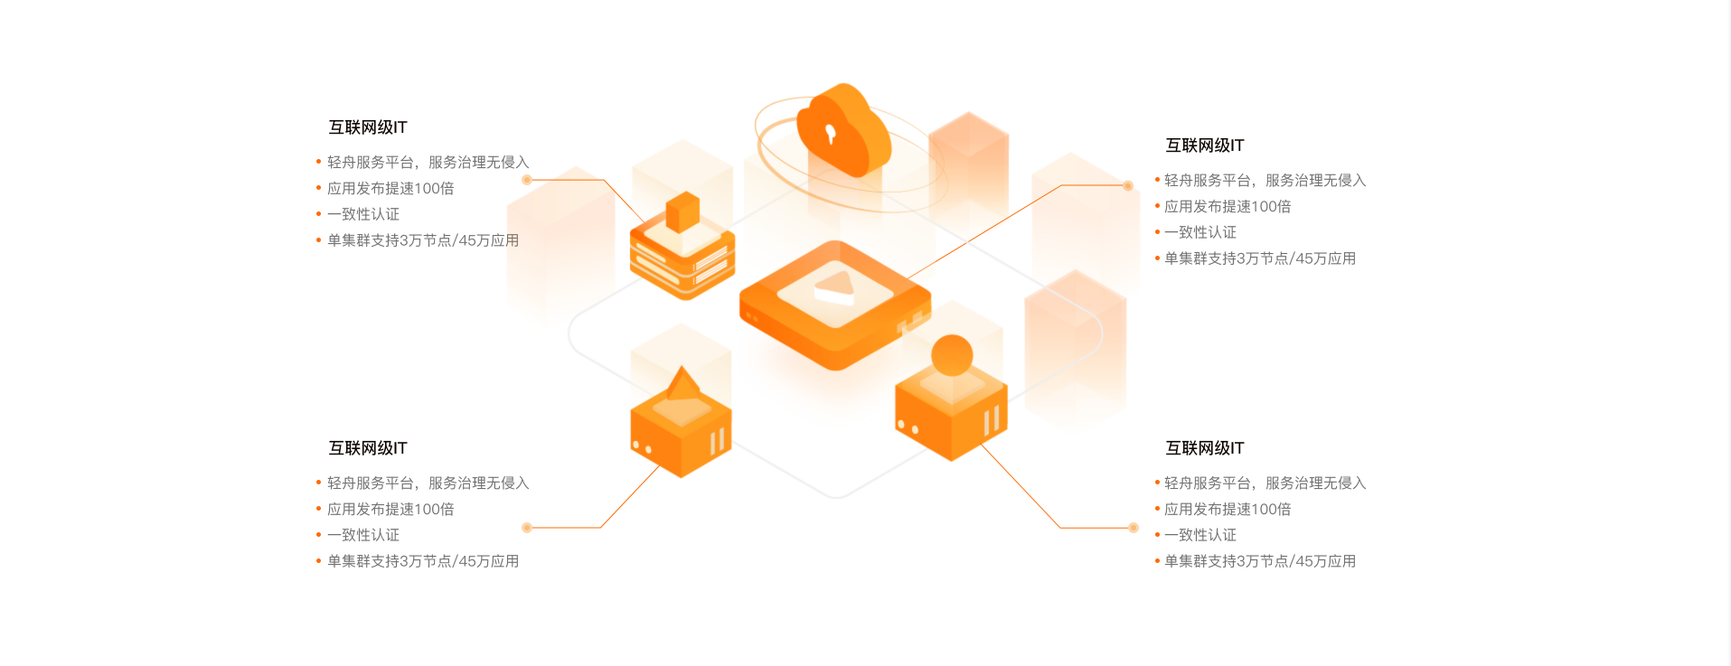
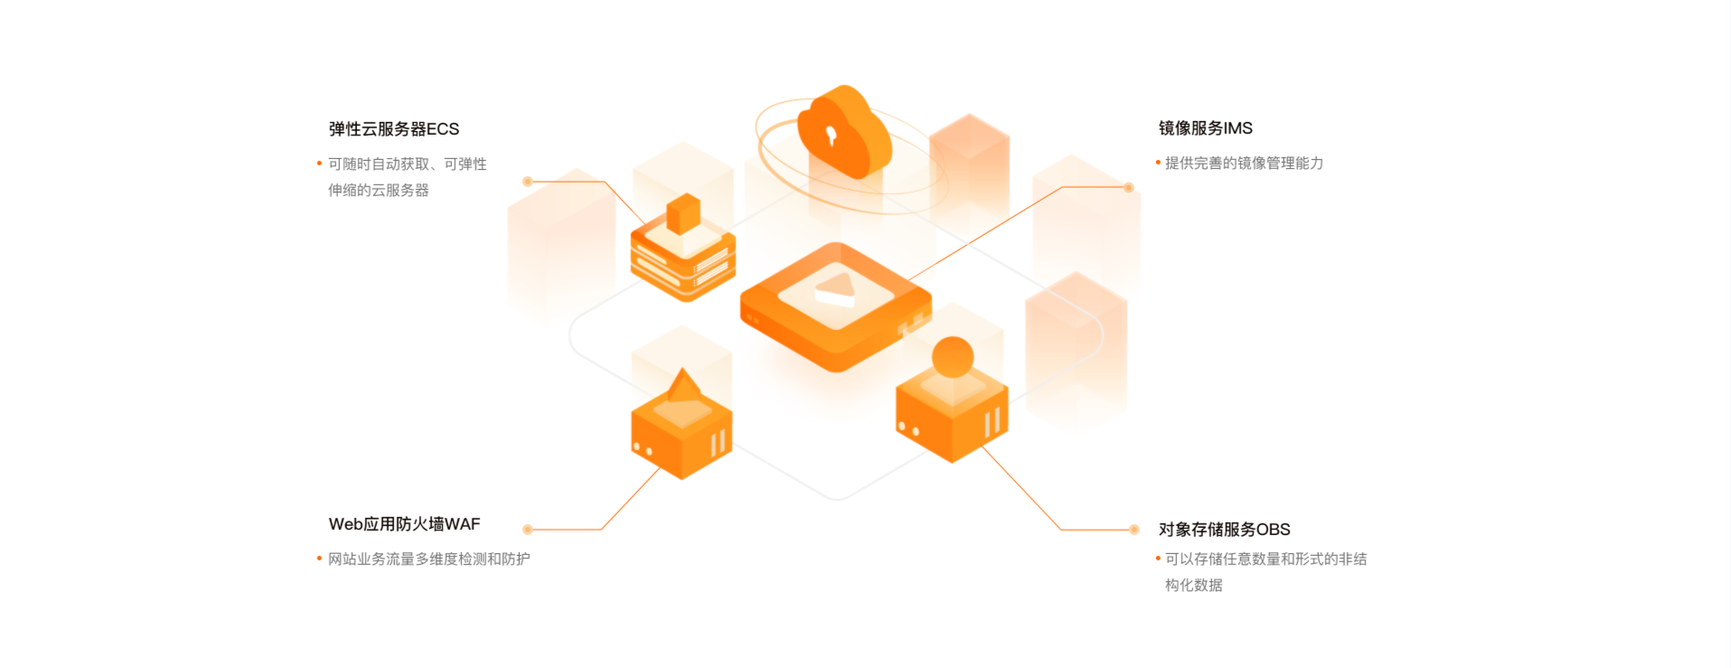
更新

diff --git a/css/homePage/index.css b/css/homePage/index.css
@@ -1,1 +1,1 @@
[2 lines of base64/hex data omitted]

diff --git a/js/index/index.js b/js/index/index.js
@@ -1,1 +1,1 @@
-!function(){"use strict";var t={7384:function(t,e,n){n.d(e,{m:function(){return c}});let o,s,i=1,r=10,l=0,a=[],d=0;function c(t){let e=arguments.length>1&&void 0!==arguments[1]?arguments[1]:0;var n,c;o=document.createElement("div"),o.style.position="fixed",o.style.pointerEvents="auto",o.style.zIndex=(n=document.querySelectorAll("*"),c=-1,n.forEach((function(t){var e=window.getComputedStyle(t).getPropertyValue("z-index");e=parseInt(e,10),!isNaN(e)&&e>c&&(c=e)})),c+"10"),o.style.left="0",o.style.right="0",o.style.bottom="0",o.style.top="0",o.style.display="flex",o.style.display="flex",o.style.alignItems="center",o.style.justifyContent="center",o.style.backgroundColor="#00000080",window.addEventListener("wheel",y,{passive:!1}),i=1,r=10,l=0,d=0,a=t,d=e,p(t[e]),o.innerHTML='\n  <style>\n    .my-show-mask-close{\n      position: absolute;\n      z-index: 9;\n      top: 5%;\n      right: 5%;\n      width: 40px;\n      height: 40px;\n      border-radius: 50%;\n      background: #606266;\n      display: flex;\n      align-items: center;\n      justify-content: center;\n      cursor:pointer;\n    }\n    .my-show-mask-box{\n      position: absolute;\n      z-index: 9;\n      display: flex;\n      bottom: 8%;\n      border-radius: 20px;\n      background-color: #606266;\n      height: 44px;\n      width: 282px;\n      justify-content: space-evenly;\n      align-items: center;\n    }\n    .my-show-mask-box>div{\n      color:#fff;\n      font-style: normal;\n      font-weight: 400;\n      font-size: 23px;\n      align-items: center;\n      cursor:pointer;\n      display: flex;\n    }\n    .my-show-mask-box>.my-show-mask-box-reduce{\n     padding-top: 5px;\n    }\n    .my-show-mask-box>.my-show-mask-box-amplify{\n     padding-top: 5px;\n    }\n    .my-show-mask-box>.my-show-mask-box-rotate-left{\n     border-radius: 50%;\n     position: relative;\n     width: 20px;\n     height: 20px;\n     border: 2px solid #fff;\n    }\n    .my-show-mask-box>.my-show-mask-box-rotate-left::after{\n     content: \'\';\n     position: absolute;\n     z-index: 2;\n     transform: rotate(65deg);\n     left: -3px;\n     top: -1px;\n     border-right: 2px solid #fff;\n     width: 5px;\n     height: 5px;\n     border-bottom: 2px solid #fff;\n    }\n    .my-show-mask-box>.my-show-mask-box-rotate-left::before{\n     content: \'\';\n     position: absolute;\n     width: 12px;\n     height: 7px;\n     top: 5px;\n     left: -6px;\n     background-color: #606266;\n    }\n\n    .my-show-mask-box>.my-show-mask-box-rotate-right{\n     border-radius: 50%;\n     position: relative;\n     width: 20px;\n     height: 20px;\n     border: 2px solid #fff;\n    }\n    .my-show-mask-box>.my-show-mask-box-rotate-right::after{\n     content: \'\';\n     position: absolute;\n     z-index: 2;\n     transform: rotate(19deg);\n     right: -3px;\n     top: 0px;\n     border-right: 2px solid #fff;\n     width: 5px;\n     height: 5px;\n     border-bottom: 2px solid #fff;\n    }\n    .my-show-mask-box>.my-show-mask-box-rotate-right::before{\n     content: \'\';\n     position: absolute;\n     width: 12px;\n     height: 7px;\n     top: 5px;\n     right: -6px;\n     background-color: #606266;\n    }\n    .my-show-mask-switch{\n     position: absolute;\n     z-index: 10;\n     font-size: 31px;\n     color: #fff;\n     font-family: cursive, sans-serif;\n     font-weight: 400;\n     border-radius: 50%;\n     width: 50px;\n     height: 50px;\n     background-color: #606266;\n     text-align: center;\n     line-height: 50px;\n     top: 50%;\n     transform: translateY(-50%);\n     cursor: pointer;\n     -webkit-user-select:none;\n     -moz-user-select:none;\n     -ms-user-select:none;\n     user-select:none;\n    }\n    .my-show-mask-switch-left{\n     left: 40px;\n    }\n    .my-show-mask-switch-right{\n     right: 40px;\n    }\n  </style>\n  <div class=\'my-show-mask-close\'>\n    <svg width="18" height="18" xmlns="http://www.w3.org/2000/svg">\n      <line x1="0" y1="0" x2="18" y2="18" stroke="white" stroke-width="2.3" />\n      <line x1="0" y1="18" x2="18" y2="0" stroke="white" stroke-width="2.3" />\n    </svg>\n  </div>\n  <div class=\'my-show-mask-switch my-show-mask-switch-right\'>\n    >\n  </div>  \n  <div class=\'my-show-mask-switch my-show-mask-switch-left\'>\n    <\n  </div> \n\n  <div class=\'my-show-mask-box\'>\n   <div class="my-show-mask-box-amplify">\n    <svg width="23" height="23" xmlns="http://www.w3.org/2000/svg">\n      <circle cx="10" cy="10" r="9" stroke="white" fill="none" stroke-width="2" />\n      <line x1="6" y1="10" x2="14" y2="10" stroke="white" stroke-width="2" />\n      \x3c!-- 垂直线 --\x3e\n      <line x1="10" y1="6" x2="10" y2="14" stroke="white" stroke-width="2" />\n      <line x1="16" y1="17" x2="20" y2="20" stroke="white" stroke-width="2" />\n    </svg>\n   </div>\n\n   <div class="my-show-mask-box-reduce">\n    <svg width="23" height="23" xmlns="http://www.w3.org/2000/svg">\n      <circle cx="10" cy="10" r="9" stroke="white" fill="none" stroke-width="2" />\n      <line x1="6" y1="10" x2="14" y2="10" stroke="white" stroke-width="2" />\n      <line x1="16" y1="17" x2="20" y2="20" stroke="white" stroke-width="2" />\n    </svg>\n   </div>\n   <div class=\'my-show-mask-box-rotate-left\'>\n   </div>\n   <div class=\'my-show-mask-box-rotate-right\'>\n   </div>\n  </div>\n ',Array.from(o.children).forEach((t=>{let e=Array.from(t.classList);if(e.indexOf("my-show-mask-close")>-1&&t.addEventListener("click",(function(){f()})),e.indexOf("my-show-mask-box")>-1){t.addEventListener("click",(function(t){t.stopPropagation()})),Array.from(t.children).forEach((t=>{let e=Array.from(t.classList);e.indexOf("my-show-mask-box-amplify")>-1&&t.addEventListener("click",(function(){r*=1.2;let t=Number(s.offsetWidth),e=Number(s.offsetHeight);h(1.2*t,t,1.2*e,e)})),e.indexOf("my-show-mask-box-reduce")>-1&&t.addEventListener("click",(function(){if(r<100)return;r/=1.2;let t=Number(s.offsetWidth),e=Number(s.offsetHeight);h(t/1.2,t,e/1.2,e)})),e.indexOf("my-show-mask-box-rotate-left")>-1&&t.addEventListener("click",(function(){l=0===l?270:l-90,i=1,s.style.transform=`rotate(${l}deg) scale(${i})`})),e.indexOf("my-show-mask-box-rotate-right")>-1&&t.addEventListener("click",(function(){l=360===l?90:l+90,i=1,s.style.transform=`rotate(${l}deg) scale(${i})`}))}))}e.indexOf("my-show-mask-switch-right")>-1&&t.addEventListener("click",(function(t){t.stopPropagation(),d=0===d?a.length-1:d-1,p(a[d])})),e.indexOf("my-show-mask-switch-left")>-1&&t.addEventListener("click",(function(t){t.stopPropagation(),d=d===a.length-1?0:d+1,p(a[d])}))}))}let u=null;function h(t,e,n,o){s.style.transition="all .3s",s.style.width=`${r}px`,s.style.left=Number(s.style.left.replaceAll("px",""))-(t-e)/2+"px",s.style.top=Number(s.style.top.replaceAll("px",""))-(n-o)/2+"px",clearTimeout(u),u=setTimeout((()=>{s.style.transition="none"}),300)}function m(t,e,n,o){if(0===l||180===l||360===l){r="add"===e?r+.2*r:r-.2*r,s.style.width=r+"px";let o=s.getBoundingClientRect();s.style.left=o.left-(o.width-t.width)*(n.clientX-t.left)/t.width+"px",s.style.top=o.top-(o.height-t.height)*(n.clientY-t.top)/t.height+"px"}else if("large"===o)i+=.2,s.style.transform=`rotate(${l}deg) scale(${i})`;else{if(i<=.5)return;i-=.2,s.style.transform=`rotate(${l}deg) scale(${i})`}}function f(){window.removeEventListener("wheel",y),o.remove()}function p(t){let e=document.getElementById("my-show-mask-img");e&&e.remove(),s=document.createElement("img"),s.src=t,s.id="my-show-mask-img",s.addEventListener("load",(function(t){r=s.width>window.innerWidth?window.innerWidth:s.width,s.style.width=r+"px",s.style.position="absolute",s.draggable="true",s.style.cursor="grab",o.appendChild(s),document.body.appendChild(o),o.addEventListener("click",(function(t){f(),t.stopPropagation()})),s.addEventListener("click",(function(t){t.stopPropagation()})),s.addEventListener("dragstart",(function(t){t.preventDefault()})),s.style.top=s.offsetTop+"px",s.style.left=s.offsetLeft+"px",s.addEventListener("mousedown",(function(t){s.style.cursor="grabbing";let e=t.pageX-s.offsetLeft,n=t.pageY-s.offsetTop;window.onmousemove=function(t){let o=t.pageX-e,i=t.pageY-n;s.style.top=i+"px",s.style.left=o+"px"},window.onmouseup=function(t){s.style.cursor="grab",window.onmousemove=null,window.onmouseup=null}})),s.addEventListener("wheel",(function(t){let e=s.getBoundingClientRect();if(t.deltaY<0&&m(e,"add",t,"large"),t.deltaY>0){if(r<100)return;m(e,"reduce",t,"small")}t.preventDefault()}))}))}function y(t){t.preventDefault()}}},e={};function n(o){var s=e[o];if(void 0!==s)return s.exports;var i=e[o]={exports:{}};return t[o](i,i.exports,n),i.exports}n.d=function(t,e){for(var o in e)n.o(e,o)&&!n.o(t,o)&&Object.defineProperty(t,o,{enumerable:!0,get:e[o]})},n.o=function(t,e){return Object.prototype.hasOwnProperty.call(t,e)},function(){var t=n(7384);document.querySelectorAll(".myShowMask").forEach(((e,n)=>{e.addEventListener("click",(function(e){(0,t.m)([e.target.src,"./img/index/index_h_cloud6.png"],0)}))}));let e=document.querySelector("body"),o=document.querySelectorAll(".index-content .h-cloud-product>.product-box>.product-list>.product-content>.product-content-select>.select-box>.select"),s=document.querySelectorAll(".index-content .index_huasaiyun .illustrate>.banner-bright>.banner-drop"),i=document.querySelectorAll(".index-content .index_huasaiyun>.huasaiyun-img");s.forEach(((t,e)=>{t.addEventListener("mouseover",(function(t){s.forEach((t=>{t.classList.remove("drop-bright")})),i.forEach(((t,n)=>{t.classList.remove("banner-currently"),n===e&&t.classList.add("banner-currently")})),this.classList.add("drop-bright")}))}));var r=document.querySelector(".index-header"),l=document.querySelectorAll(".header-nav .ul>div>a"),a=document.querySelector(".nav-show-box");e.addEventListener("click",(function(t){l.forEach(((t,e)=>{let n=document.querySelector(".box-"+e);n&&n.classList.remove("flex")})),a.style.display="none",u(),y()}));let d=document.querySelectorAll(".index-content .h-cloud .h-cloud-tabs>li"),c=document.querySelector(".index-content .h-cloud .h-cloud-tabs>.tabsAfter");function u(t){let e=document.querySelectorAll(".lazy-js"),n=document.querySelectorAll(".lazy-dom"),o=document.querySelector(".index-content .index_huasaiyun"),s=document.querySelector(".return-to-top");if(o.getBoundingClientRect().bottom<=150&&"none"!==getComputedStyle(o).display&&(r.classList.add("tops_current"),s.classList.remove("fadeOutUp"),s.classList.add("opacityToBottom")),o.getBoundingClientRect().bottom>=151&&"none"!==getComputedStyle(o).display&&"none"===getComputedStyle(a).display){r.classList.remove("tops_current"),Array.from(s.classList).indexOf("opacityToBottom")>-1&&(s.classList.remove("opacityToBottom"),s.classList.add("fadeOutUp"))}e.forEach(((t,e)=>{let n=t.getBoundingClientRect();n.top<=window.innerHeight&&n.bottom>=0&&"none"!==getComputedStyle(t).display&&(v("https://cdnjs.cloudflare.com/ajax/libs/echarts/5.4.3/echarts.min.js",(function(t){v("./js/echarts/index_china1.js",(function(t){v("./js/echarts/index_world1.js",(function(t){v("./js/index/index_echarts1.js",(function(t){}))}))}))})),t.classList.remove("lazy-js"))})),n.forEach((function(t){h(t)&&(t.classList.add("animationToRight"),t.classList.remove("lazy-dom"))})),document.querySelectorAll(".lazy-load").forEach(((t,e)=>{let n=t.getBoundingClientRect();n.top<=window.innerHeight&&n.bottom>0&&"none"!==getComputedStyle(t).display&&(t.src=t.dataset.src,t.classList.remove("lazy-load"),t.removeAttribute("data-src"))})),document.querySelectorAll(".lazy-bg").forEach((function(t){if(h(t)){let e=t.getAttribute("data-src");t.style.backgroundImage="url("+e+")",t.classList.remove("lazy-bg"),t.removeAttribute("data-src")}}))}function h(t){let e=t.getBoundingClientRect();return e.top<=window.innerHeight&&e.bottom>=0&&"none"!==getComputedStyle(t).display}d.forEach(((t,e)=>{t.addEventListener("click",(function(){d.forEach((t=>{t.classList.remove("text")})),this.classList.add("text");let t=0;for(let n=0;n<e;n++)t+=d[n].scrollWidth;c.style.width=this.clientWidth+"px",c.style.left=t+"px"}))})),window.addEventListener("scroll",u),u();let m=null,f=null,p=null;function y(){m&&(m.style.transform="rotate(0deg) translate(0, -50%)",f.classList.add("fadeOutUpOption"),p.classList.add("fadeOutUpPointer"),f.classList.remove("fadeInDownOption"),p.classList.remove("fadeInDownPointer"))}o.forEach((t=>{t.addEventListener("click",(function(t){t.stopImmediatePropagation(),y(),m=this.children[1];let e=function(t){const e=Array.from(t.parentNode.children),n=e.filter((function(e){return e!==t}));return n}(this);f=e[0],p=e[1],f.classList.remove("fadeOutUpOption"),f.classList.add("fadeInDownOption"),p.classList.remove("fadeOutUpPointer"),p.classList.add("fadeInDownPointer"),m.style.transform="rotate(90deg) translate(-50%, -0%)"}))})),document.querySelectorAll(".index-content .h-cloud-product>.product-box>.product-list>.product-content>.product-content-select>.select-box>.option-box>.option").forEach(((t,e)=>{t.addEventListener("click",(function(t){t.stopImmediatePropagation(),Array.from(this.parentNode.children).forEach((t=>{t.classList.remove("text")})),this.classList.add("text");let e=this.parentNode?.parentNode?.children[0]?.children[0];e.innerText=this.innerText,y()}))}));let x=document.querySelectorAll(".index-content .h-cloud>.mutual>.ul-1>li"),w=document.querySelectorAll(".index-content .h-cloud>.mutual>.ul-2>li");x.forEach(((t,e)=>{t.addEventListener("click",(function(t){x.forEach((t=>{t.classList.remove("bright")})),this.classList.add("bright"),w.forEach((t=>{t.className.indexOf("bounceEnterRight")>-1?(t.classList.remove("bounceEnterRight"),t.classList.add("fadeOutUp")):t.classList.remove("flex")})),w[e].classList.add("flex"),w[e].classList.add("bounceEnterRight"),w[e].classList.remove("fadeOutUp")}))})),document.querySelectorAll(".index-content .h-cloud-product>.guide>ul>li").forEach(((t,e)=>{t.addEventListener("click",(function(t){let n=this.parentNode,o=n.children,s=0;for(let t=0;t<e;t++)s+=o[t].clientWidth;n.style.setProperty("--w",this.clientWidth+"px"),n.style.setProperty("--l",s+"px")}))}));let g=document.querySelectorAll(".index-content .h-cloud>.region>ul>li"),b=document.querySelector(".index-content .h-cloud>.region>ul>span");function v(t,e){var n=document.createElement("script");n.src=t,n.onload=t=>{e&&e(t)},document.body.appendChild(n)}g.forEach(((t,e)=>{0===e&&b.style.setProperty("--w",t.clientWidth+"px");let n=[];t.addEventListener("click",(function(t){-1===n.indexOf(e)&&0!==e&&(n.push(e),v("./js/index/index_echarts"+(e+1)+".js"));let o=document.querySelectorAll(".index-content .h-cloud>.region>.map>div");o.forEach((t=>{t.classList.remove("flex")})),g.forEach((t=>{t.classList.remove("text")})),o[e].classList.add("flex"),this.classList.add("text");let s=0;for(let t=0;t<e;t++)s+=g[t].clientWidth;b.style.setProperty("--w",this.clientWidth+"px"),b.style.setProperty("--l",s+"px")}))}))}()}();
+!function(){"use strict";var t={7384:function(t,e,n){n.d(e,{m:function(){return c}});let o,s,i=1,r=10,l=0,a=[],d=0;function c(t){let e=arguments.length>1&&void 0!==arguments[1]?arguments[1]:0;var n,c;o=document.createElement("div"),o.style.position="fixed",o.style.pointerEvents="auto",o.style.zIndex=(n=document.querySelectorAll("*"),c=-1,n.forEach((function(t){var e=window.getComputedStyle(t).getPropertyValue("z-index");e=parseInt(e,10),!isNaN(e)&&e>c&&(c=e)})),c+"10"),o.style.left="0",o.style.right="0",o.style.bottom="0",o.style.top="0",o.style.display="flex",o.style.display="flex",o.style.alignItems="center",o.style.justifyContent="center",o.style.backgroundColor="#00000080",window.addEventListener("wheel",y,{passive:!1}),i=1,r=10,l=0,d=0,a=t,d=e,p(t[e]),o.innerHTML='\n  <style>\n    .my-show-mask-close{\n      position: absolute;\n      z-index: 9;\n      top: 5%;\n      right: 5%;\n      width: 40px;\n      height: 40px;\n      border-radius: 50%;\n      background: #606266;\n      display: flex;\n      align-items: center;\n      justify-content: center;\n      cursor:pointer;\n    }\n    .my-show-mask-box{\n      position: absolute;\n      z-index: 9;\n      display: flex;\n      bottom: 8%;\n      border-radius: 20px;\n      background-color: #606266;\n      height: 44px;\n      width: 282px;\n      justify-content: space-evenly;\n      align-items: center;\n    }\n    .my-show-mask-box>div{\n      color:#fff;\n      font-style: normal;\n      font-weight: 400;\n      font-size: 23px;\n      align-items: center;\n      cursor:pointer;\n      display: flex;\n    }\n    .my-show-mask-box>.my-show-mask-box-reduce{\n     padding-top: 5px;\n    }\n    .my-show-mask-box>.my-show-mask-box-amplify{\n     padding-top: 5px;\n    }\n    .my-show-mask-box>.my-show-mask-box-rotate-left{\n     border-radius: 50%;\n     position: relative;\n     width: 20px;\n     height: 20px;\n     border: 2px solid #fff;\n    }\n    .my-show-mask-box>.my-show-mask-box-rotate-left::after{\n     content: \'\';\n     position: absolute;\n     z-index: 2;\n     transform: rotate(65deg);\n     left: -3px;\n     top: -1px;\n     border-right: 2px solid #fff;\n     width: 5px;\n     height: 5px;\n     border-bottom: 2px solid #fff;\n    }\n    .my-show-mask-box>.my-show-mask-box-rotate-left::before{\n     content: \'\';\n     position: absolute;\n     width: 12px;\n     height: 7px;\n     top: 5px;\n     left: -6px;\n     background-color: #606266;\n    }\n\n    .my-show-mask-box>.my-show-mask-box-rotate-right{\n     border-radius: 50%;\n     position: relative;\n     width: 20px;\n     height: 20px;\n     border: 2px solid #fff;\n    }\n    .my-show-mask-box>.my-show-mask-box-rotate-right::after{\n     content: \'\';\n     position: absolute;\n     z-index: 2;\n     transform: rotate(19deg);\n     right: -3px;\n     top: 0px;\n     border-right: 2px solid #fff;\n     width: 5px;\n     height: 5px;\n     border-bottom: 2px solid #fff;\n    }\n    .my-show-mask-box>.my-show-mask-box-rotate-right::before{\n     content: \'\';\n     position: absolute;\n     width: 12px;\n     height: 7px;\n     top: 5px;\n     right: -6px;\n     background-color: #606266;\n    }\n    .my-show-mask-switch{\n     position: absolute;\n     z-index: 10;\n     font-size: 31px;\n     color: #fff;\n     font-family: cursive, sans-serif;\n     font-weight: 400;\n     border-radius: 50%;\n     width: 50px;\n     height: 50px;\n     background-color: #606266;\n     text-align: center;\n     line-height: 50px;\n     top: 50%;\n     transform: translateY(-50%);\n     cursor: pointer;\n     -webkit-user-select:none;\n     -moz-user-select:none;\n     -ms-user-select:none;\n     user-select:none;\n    }\n    .my-show-mask-switch-left{\n     left: 40px;\n    }\n    .my-show-mask-switch-right{\n     right: 40px;\n    }\n  </style>\n  <div class=\'my-show-mask-close\'>\n    <svg width="18" height="18" xmlns="http://www.w3.org/2000/svg">\n      <line x1="0" y1="0" x2="18" y2="18" stroke="white" stroke-width="2.3" />\n      <line x1="0" y1="18" x2="18" y2="0" stroke="white" stroke-width="2.3" />\n    </svg>\n  </div>\n  <div class=\'my-show-mask-switch my-show-mask-switch-right\'>\n    >\n  </div>  \n  <div class=\'my-show-mask-switch my-show-mask-switch-left\'>\n    <\n  </div> \n\n  <div class=\'my-show-mask-box\'>\n   <div class="my-show-mask-box-amplify">\n    <svg width="23" height="23" xmlns="http://www.w3.org/2000/svg">\n      <circle cx="10" cy="10" r="9" stroke="white" fill="none" stroke-width="2" />\n      <line x1="6" y1="10" x2="14" y2="10" stroke="white" stroke-width="2" />\n      \x3c!-- 垂直线 --\x3e\n      <line x1="10" y1="6" x2="10" y2="14" stroke="white" stroke-width="2" />\n      <line x1="16" y1="17" x2="20" y2="20" stroke="white" stroke-width="2" />\n    </svg>\n   </div>\n\n   <div class="my-show-mask-box-reduce">\n    <svg width="23" height="23" xmlns="http://www.w3.org/2000/svg">\n      <circle cx="10" cy="10" r="9" stroke="white" fill="none" stroke-width="2" />\n      <line x1="6" y1="10" x2="14" y2="10" stroke="white" stroke-width="2" />\n      <line x1="16" y1="17" x2="20" y2="20" stroke="white" stroke-width="2" />\n    </svg>\n   </div>\n   <div class=\'my-show-mask-box-rotate-left\'>\n   </div>\n   <div class=\'my-show-mask-box-rotate-right\'>\n   </div>\n  </div>\n ',Array.from(o.children).forEach((t=>{let e=Array.from(t.classList);if(e.indexOf("my-show-mask-close")>-1&&t.addEventListener("click",(function(){f()})),e.indexOf("my-show-mask-box")>-1){t.addEventListener("click",(function(t){t.stopPropagation()})),Array.from(t.children).forEach((t=>{let e=Array.from(t.classList);e.indexOf("my-show-mask-box-amplify")>-1&&t.addEventListener("click",(function(){r*=1.2;let t=Number(s.offsetWidth),e=Number(s.offsetHeight);h(1.2*t,t,1.2*e,e)})),e.indexOf("my-show-mask-box-reduce")>-1&&t.addEventListener("click",(function(){if(r<100)return;r/=1.2;let t=Number(s.offsetWidth),e=Number(s.offsetHeight);h(t/1.2,t,e/1.2,e)})),e.indexOf("my-show-mask-box-rotate-left")>-1&&t.addEventListener("click",(function(){l=0===l?270:l-90,i=1,s.style.transform=`rotate(${l}deg) scale(${i})`})),e.indexOf("my-show-mask-box-rotate-right")>-1&&t.addEventListener("click",(function(){l=360===l?90:l+90,i=1,s.style.transform=`rotate(${l}deg) scale(${i})`}))}))}e.indexOf("my-show-mask-switch-right")>-1&&t.addEventListener("click",(function(t){t.stopPropagation(),d=d===a.length-1?0:d+1,p(a[d])})),e.indexOf("my-show-mask-switch-left")>-1&&t.addEventListener("click",(function(t){t.stopPropagation(),d=0===d?a.length-1:d-1,p(a[d])}))}))}let u=null;function h(t,e,n,o){s.style.transition="all .3s",s.style.width=`${r}px`,s.style.left=Number(s.style.left.replaceAll("px",""))-(t-e)/2+"px",s.style.top=Number(s.style.top.replaceAll("px",""))-(n-o)/2+"px",clearTimeout(u),u=setTimeout((()=>{s.style.transition="none"}),300)}function m(t,e,n,o){if(0===l||180===l||360===l){r="add"===e?r+.2*r:r-.2*r,s.style.width=r+"px";let o=s.getBoundingClientRect();s.style.left=o.left-(o.width-t.width)*(n.clientX-t.left)/t.width+"px",s.style.top=o.top-(o.height-t.height)*(n.clientY-t.top)/t.height+"px"}else if("large"===o)i+=.2,s.style.transform=`rotate(${l}deg) scale(${i})`;else{if(i<=.5)return;i-=.2,s.style.transform=`rotate(${l}deg) scale(${i})`}}function f(){window.removeEventListener("wheel",y),o.remove()}function p(t){let e=document.getElementById("my-show-mask-img");e&&e.remove(),s=document.createElement("img"),s.src=t,s.id="my-show-mask-img",s.addEventListener("load",(function(t){r=s.width>window.innerWidth?window.innerWidth:s.width,s.style.width=r+"px",s.style.position="absolute",s.draggable="true",s.style.cursor="grab",o.appendChild(s),document.body.appendChild(o),o.addEventListener("click",(function(t){f(),t.stopPropagation()})),s.addEventListener("click",(function(t){t.stopPropagation()})),s.addEventListener("dragstart",(function(t){t.preventDefault()})),s.style.top=s.offsetTop+"px",s.style.left=s.offsetLeft+"px",s.addEventListener("mousedown",(function(t){s.style.cursor="grabbing";let e=t.pageX-s.offsetLeft,n=t.pageY-s.offsetTop;window.onmousemove=function(t){let o=t.pageX-e,i=t.pageY-n;s.style.top=i+"px",s.style.left=o+"px"},window.onmouseup=function(t){s.style.cursor="grab",window.onmousemove=null,window.onmouseup=null}})),s.addEventListener("wheel",(function(t){let e=s.getBoundingClientRect();if(t.deltaY<0&&m(e,"add",t,"large"),t.deltaY>0){if(r<100)return;m(e,"reduce",t,"small")}t.preventDefault()}))}))}function y(t){t.preventDefault()}}},e={};function n(o){var s=e[o];if(void 0!==s)return s.exports;var i=e[o]={exports:{}};return t[o](i,i.exports,n),i.exports}n.d=function(t,e){for(var o in e)n.o(e,o)&&!n.o(t,o)&&Object.defineProperty(t,o,{enumerable:!0,get:e[o]})},n.o=function(t,e){return Object.prototype.hasOwnProperty.call(t,e)},function(){var t=n(7384);document.querySelectorAll(".myShowMask").forEach(((e,n)=>{e.addEventListener("click",(function(e){(0,t.m)([e.target.src,"./img/index/index_h_cloud6.png"],0)}))}));let e=document.querySelector("body"),o=document.querySelectorAll(".index-content .h-cloud-product>.product-box>.product-list>.product-content>.product-content-select>.select-box>.select"),s=document.querySelectorAll(".index-content .index_huasaiyun .illustrate>.banner-bright>.banner-drop"),i=document.querySelectorAll(".index-content .index_huasaiyun>.huasaiyun-img");s.forEach(((t,e)=>{t.addEventListener("mouseover",(function(t){s.forEach((t=>{t.classList.remove("drop-bright")})),i.forEach(((t,n)=>{t.classList.remove("banner-currently"),n===e&&t.classList.add("banner-currently")})),this.classList.add("drop-bright")}))}));var r=document.querySelector(".index-header"),l=document.querySelectorAll(".header-nav .ul>div>a"),a=document.querySelector(".nav-show-box");e.addEventListener("click",(function(t){l.forEach(((t,e)=>{let n=document.querySelector(".box-"+e);n&&n.classList.remove("flex")})),a.style.display="none",u(),y()}));let d=document.querySelectorAll(".index-content .h-cloud .h-cloud-tabs>li"),c=document.querySelector(".index-content .h-cloud .h-cloud-tabs>.tabsAfter");function u(t){let e=document.querySelectorAll(".lazy-js"),n=document.querySelectorAll(".lazy-dom"),o=document.querySelector(".index-content .index_huasaiyun"),s=document.querySelector(".return-to-top");if(o.getBoundingClientRect().bottom<=150&&"none"!==getComputedStyle(o).display&&(r.classList.add("tops_current"),s.classList.remove("fadeOutUp"),s.classList.add("opacityToBottom")),o.getBoundingClientRect().bottom>=151&&"none"!==getComputedStyle(o).display&&"none"===getComputedStyle(a).display){r.classList.remove("tops_current"),Array.from(s.classList).indexOf("opacityToBottom")>-1&&(s.classList.remove("opacityToBottom"),s.classList.add("fadeOutUp"))}e.forEach(((t,e)=>{let n=t.getBoundingClientRect();n.top<=window.innerHeight&&n.bottom>=0&&"none"!==getComputedStyle(t).display&&(v("https://cdnjs.cloudflare.com/ajax/libs/echarts/5.4.3/echarts.min.js",(function(t){v("./js/echarts/index_china1.js",(function(t){v("./js/echarts/index_world1.js",(function(t){v("./js/index/index_echarts1.js",(function(t){}))}))}))})),t.classList.remove("lazy-js"))})),n.forEach((function(t){h(t)&&(t.classList.add("animationToRight"),t.classList.remove("lazy-dom"))})),document.querySelectorAll(".lazy-load").forEach(((t,e)=>{let n=t.getBoundingClientRect();n.top<=window.innerHeight&&n.bottom>0&&"none"!==getComputedStyle(t).display&&(t.src=t.dataset.src,t.classList.remove("lazy-load"),t.removeAttribute("data-src"))})),document.querySelectorAll(".lazy-bg").forEach((function(t){if(h(t)){let e=t.getAttribute("data-src");t.style.backgroundImage="url("+e+")",t.classList.remove("lazy-bg"),t.removeAttribute("data-src")}}))}function h(t){let e=t.getBoundingClientRect();return e.top<=window.innerHeight&&e.bottom>=0&&"none"!==getComputedStyle(t).display}d.forEach(((t,e)=>{t.addEventListener("click",(function(){d.forEach((t=>{t.classList.remove("text")})),this.classList.add("text");let t=0;for(let n=0;n<e;n++)t+=d[n].scrollWidth;c.style.width=this.clientWidth+"px",c.style.left=t+"px"}))})),window.addEventListener("scroll",u),u();let m=null,f=null,p=null;function y(){m&&(m.style.transform="rotate(0deg) translate(0, -50%)",f.classList.add("fadeOutUpOption"),p.classList.add("fadeOutUpPointer"),f.classList.remove("fadeInDownOption"),p.classList.remove("fadeInDownPointer"))}o.forEach((t=>{t.addEventListener("click",(function(t){t.stopImmediatePropagation(),y(),m=this.children[1];let e=function(t){const e=Array.from(t.parentNode.children),n=e.filter((function(e){return e!==t}));return n}(this);f=e[0],p=e[1],f.classList.remove("fadeOutUpOption"),f.classList.add("fadeInDownOption"),p.classList.remove("fadeOutUpPointer"),p.classList.add("fadeInDownPointer"),m.style.transform="rotate(90deg) translate(-50%, -0%)"}))})),document.querySelectorAll(".index-content .h-cloud-product>.product-box>.product-list>.product-content>.product-content-select>.select-box>.option-box>.option").forEach(((t,e)=>{t.addEventListener("click",(function(t){t.stopImmediatePropagation(),Array.from(this.parentNode.children).forEach((t=>{t.classList.remove("text")})),this.classList.add("text");let e=this.parentNode?.parentNode?.children[0]?.children[0];e.innerText=this.innerText,y()}))}));let x=document.querySelectorAll(".index-content .h-cloud>.mutual>.ul-1>li"),w=document.querySelectorAll(".index-content .h-cloud>.mutual>.ul-2>li");x.forEach(((t,e)=>{t.addEventListener("click",(function(t){x.forEach((t=>{t.classList.remove("bright")})),this.classList.add("bright"),w.forEach((t=>{t.className.indexOf("bounceEnterRight")>-1?(t.classList.remove("bounceEnterRight"),t.classList.add("fadeOutUp")):t.classList.remove("flex")})),w[e].classList.add("flex"),w[e].classList.add("bounceEnterRight"),w[e].classList.remove("fadeOutUp")}))})),document.querySelectorAll(".index-content .h-cloud-product>.guide>ul>li").forEach(((t,e)=>{t.addEventListener("click",(function(t){let n=this.parentNode,o=n.children,s=0;for(let t=0;t<e;t++)s+=o[t].clientWidth;n.style.setProperty("--w",this.clientWidth+"px"),n.style.setProperty("--l",s+"px")}))}));let g=document.querySelectorAll(".index-content .h-cloud>.region>ul>li"),b=document.querySelector(".index-content .h-cloud>.region>ul>span");function v(t,e){var n=document.createElement("script");n.src=t,n.onload=t=>{e&&e(t)},document.body.appendChild(n)}g.forEach(((t,e)=>{0===e&&b.style.setProperty("--w",t.clientWidth+"px");let n=[];t.addEventListener("click",(function(t){-1===n.indexOf(e)&&0!==e&&(n.push(e),v("./js/index/index_echarts"+(e+1)+".js"));let o=document.querySelectorAll(".index-content .h-cloud>.region>.map>div");o.forEach((t=>{t.classList.remove("flex")})),g.forEach((t=>{t.classList.remove("text")})),o[e].classList.add("flex"),this.classList.add("text");let s=0;for(let t=0;t<e;t++)s+=g[t].clientWidth;b.style.setProperty("--w",this.clientWidth+"px"),b.style.setProperty("--l",s+"px")}))}))}()}();

diff --git a/index.html b/index.html
@@ -305,16 +305,7 @@
     <h2 class="lazy-dom">华赛云服务器</h2>
     <p class="lazy-dom">保护您在云上的应用系统和数据安全</p>
     <div class="flex describe-img flex-j-c lazy-dom">
-     <img class="lazy-load" width="100%" style="min-height: 520px;" data-src="./img/describe1.png" alt="">
-     <!-- <ul>
-        <li>互联网级IT</li>
-        <ul>
-         <li>轻舟服务平台，服务治理无侵入</li>
-         <li>应用发布提速100倍</li>
-         <li>一致性认证</li>
-         <li>单集群支持3万节点/45万应用</li>
-        </ul>
-       </ul> -->
+     <img class="lazy-load" width="100%" style="min-height: 660px;object-fit: cover;" data-src="./img/describe1.png" alt="">
     </div>
    </div>
    <!-- 华赛云服务器结束 -->
